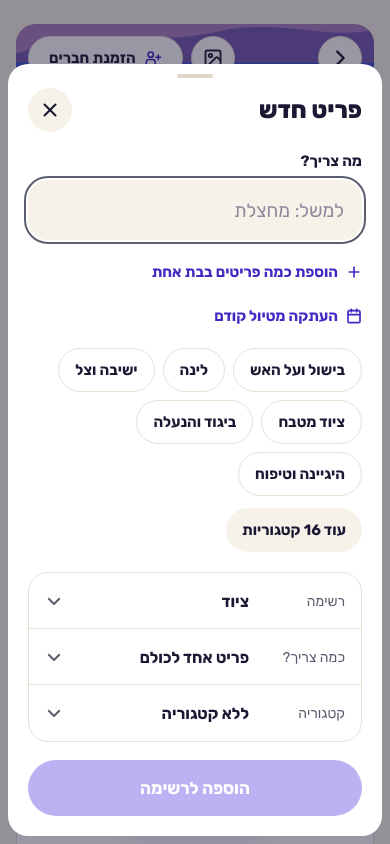
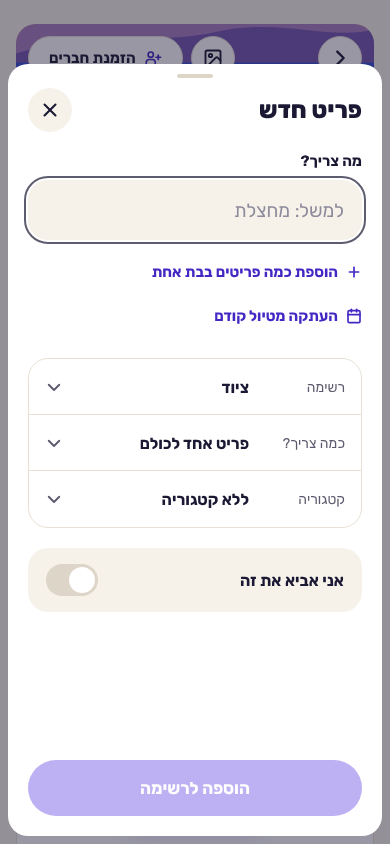
fix(app): one way to choose a category in the add-item sheet
With nothing typed, the sheet showed the catalog's sections as chips under
the name ("ישיבה וצל", "עוד 16 קטגוריות"). Tapping one opened catalog items,
but next to the category row it read as a second category picker, with
names that don't match the trip's categories. The sheet now shows catalog
matches only while typing; browsing the catalog by section stays in adding
many at once.

Claude-Session: https://claude.ai/code/session_01VJCBwFbbtzzTKqJcN8CLFP

diff --git a/apps/mobile/src/features/trip/ItemForm.tsx b/apps/mobile/src/features/trip/ItemForm.tsx
@@ -323,7 +323,11 @@ export function ItemForm({
             <AddManyLinks tripId={tripId} list={list} text={name} />
           </View>
         )}
-        {!item && <CatalogPicker query={name} list={list} exclude={taken} onPick={pick} />}
+        {/* Matches while typing only: the catalog's own sections as chips here read as a second
+            category picker next to the category row. Browsing them is in adding many. */}
+        {!item && (
+          <CatalogPicker query={name} list={list} exclude={taken} onPick={pick} browse={false} />
+        )}
       </View>
 
       {/* List, amount and category: filled in from the catalog as the name is typed, so they

diff --git a/docs/SPEC.md b/docs/SPEC.md
@@ -186,7 +186,7 @@ Routes use Expo Router. Modal routes are sheets (`Sheet`, over a scrim), which b
 | New trip           | `/(app)/trips/new`                                                            | `NewTripV2`      | Live cover preview that follows the name and template; template tiles; name, dates; cover picker; preview of what goes into the lists.                                                                                                                                                                                                                                                                                                                                                                                                                                                                             |
 | Trip               | `/(app)/trips/[tripId]`                                                       | `TripV2`         | A cover banner with back, invite and (organizers) the cover picker; the name with who's in, dates and head count; the meetup point and album once set; the readiness hero (countdown, progress, what's mine, one action). Tabs ציוד / קניות / כסף / ניהול, pinned with the name once scrolled. ציוד has the views משותף / הרשימה שלי, filters הכול / חסר / אצלי and a card per category; קניות adds the shopping run; כסף has the views הוצאות / התחשבנות; ניהול has the meetup, album, name and dates, members and join requests, invite, leave and delete. One floating action per tab. A side panel on desktop. |
 | Item sheet         | `/(app)/trips/[tripId]/items/[itemId]` (modal)                                | `ItemSheetV2`    | Status as text under the title, who brings it (claim, release or assign; a stepper for how many), price entry (creates/updates the linked expense), who shares (chips), live per-person amount, note, mark bought, delete.                                                                                                                                                                                                                                                                                                                                                                                         |
-| Add item           | `/(app)/trips/[tripId]/items/new` (modal)                                     | `AddItemV2`      | Name + quick suggestions first; then list, amount (אחד / כמות / לכל אחד, or the buy amount) and category as one-line rows that show what the catalog filled in and open to change it; "אני אביא את זה" switch. Leads to adding many at once (`items/bulk`) and copying from a past trip (`items/copy`).                                                                                                                                                                                                                                                                                                            |
+| Add item           | `/(app)/trips/[tripId]/items/new` (modal)                                     | `AddItemV2`      | Name first, with catalog matches while typing (browsing the catalog by section is in adding many); then list, amount (אחד / כמות / לכל אחד, or the buy amount) and category as one-line rows that show what the catalog filled in and open to change it; "אני אביא את זה" switch. Leads to adding many at once (`items/bulk`) and copying from a past trip (`items/copy`).                                                                                                                                                                                                                                         |
 | Take from my bag   | `/(app)/trips/[tripId]/bag` (modal)                                           | —                | Pick the common items in my bag that nobody brings yet, to bring them.                                                                                                                                                                                                                                                                                                                                                                                                                                                                                                                                             |
 | Category           | `/(app)/trips/[tripId]/categories/new`, `[categoryId]`                        | —                | Name and color of a category on the trip's lists.                                                                                                                                                                                                                                                                                                                                                                                                                                                                                                                                                                  |
 | Shopping run       | `/(app)/trips/[tripId]/shop/start`, `shop`, `shop/finish`                     | —                | Pick buy items to take on, the list at the store (live additions from others), one amount at the till ([packing and shopping spec](specs/packing-shopping/PACKING_SHOPPING_SPEC.md) §6).                                                                                                                                                                                                                                                                                                                                                                                                                           |
@@ -212,7 +212,7 @@ Routes use Expo Router. Modal routes are sheets (`Sheet`, over a scrim), which b
 | New trip | `/(app)/trips/new` | `NewTripV2` | Live cover preview updates with name and template; template tiles; name, dates, optional place; preview of what goes into the lists. |
 | Trip | `/(app)/trips/[tripId]` | `TripV2` | Cover with back, activity (unread dot), settings, invite. Status card: big missing count, covered text, avatar stack, pegs. Floating glass tab bar: להביא / לקנות / אנשים / כסף with missing badges. FAB per tab → add item / invite / add expense. |
 | Item sheet | `/(app)/trips/[tripId]/items/[itemId]` (modal) | `ItemSheetV2` | Status as text under the title, who brings it (claim, release or assign; a stepper for how many), price entry (creates/updates the linked expense), who shares (chips), live per-person amount, note, mark bought, delete. |
-| Add item | `/(app)/trips/[tripId]/items/new` (modal) | `AddItemV2` | Name + quick suggestions first; then list, amount (אחד / כמות / לכל אחד, or the buy amount) and category as one-line rows that show what the catalog filled in and open to change it; "אני אביא את זה" switch. |
+| Add item | `/(app)/trips/[tripId]/items/new` (modal) | `AddItemV2` | Name first, with catalog matches while typing (browsing the catalog by section is in adding many); then list, amount (אחד / כמות / לכל אחד, or the buy amount) and category as one-line rows that show what the catalog filled in and open to change it; "אני אביא את זה" switch. |
 | Add expense | `/(app)/trips/[tripId]/expenses/new` (modal) | `AddExpenseV2` | Amount, description with shortcuts from the buy list, who paid, who shares, receipt photo. |
 | Invite | `/(app)/trips/[tripId]/invite` (modal) | `InviteV2` | WhatsApp preview card, editable message, share / copy / QR, approval switch, rotate link. |
 | Activity | `/(app)/trips/[tripId]/activity` | `ActivityV2` | "מחכה לך" to-dos (unpriced purchases, money you owe), filter הכול / פריטים / כסף, timeline grouped by day. |
